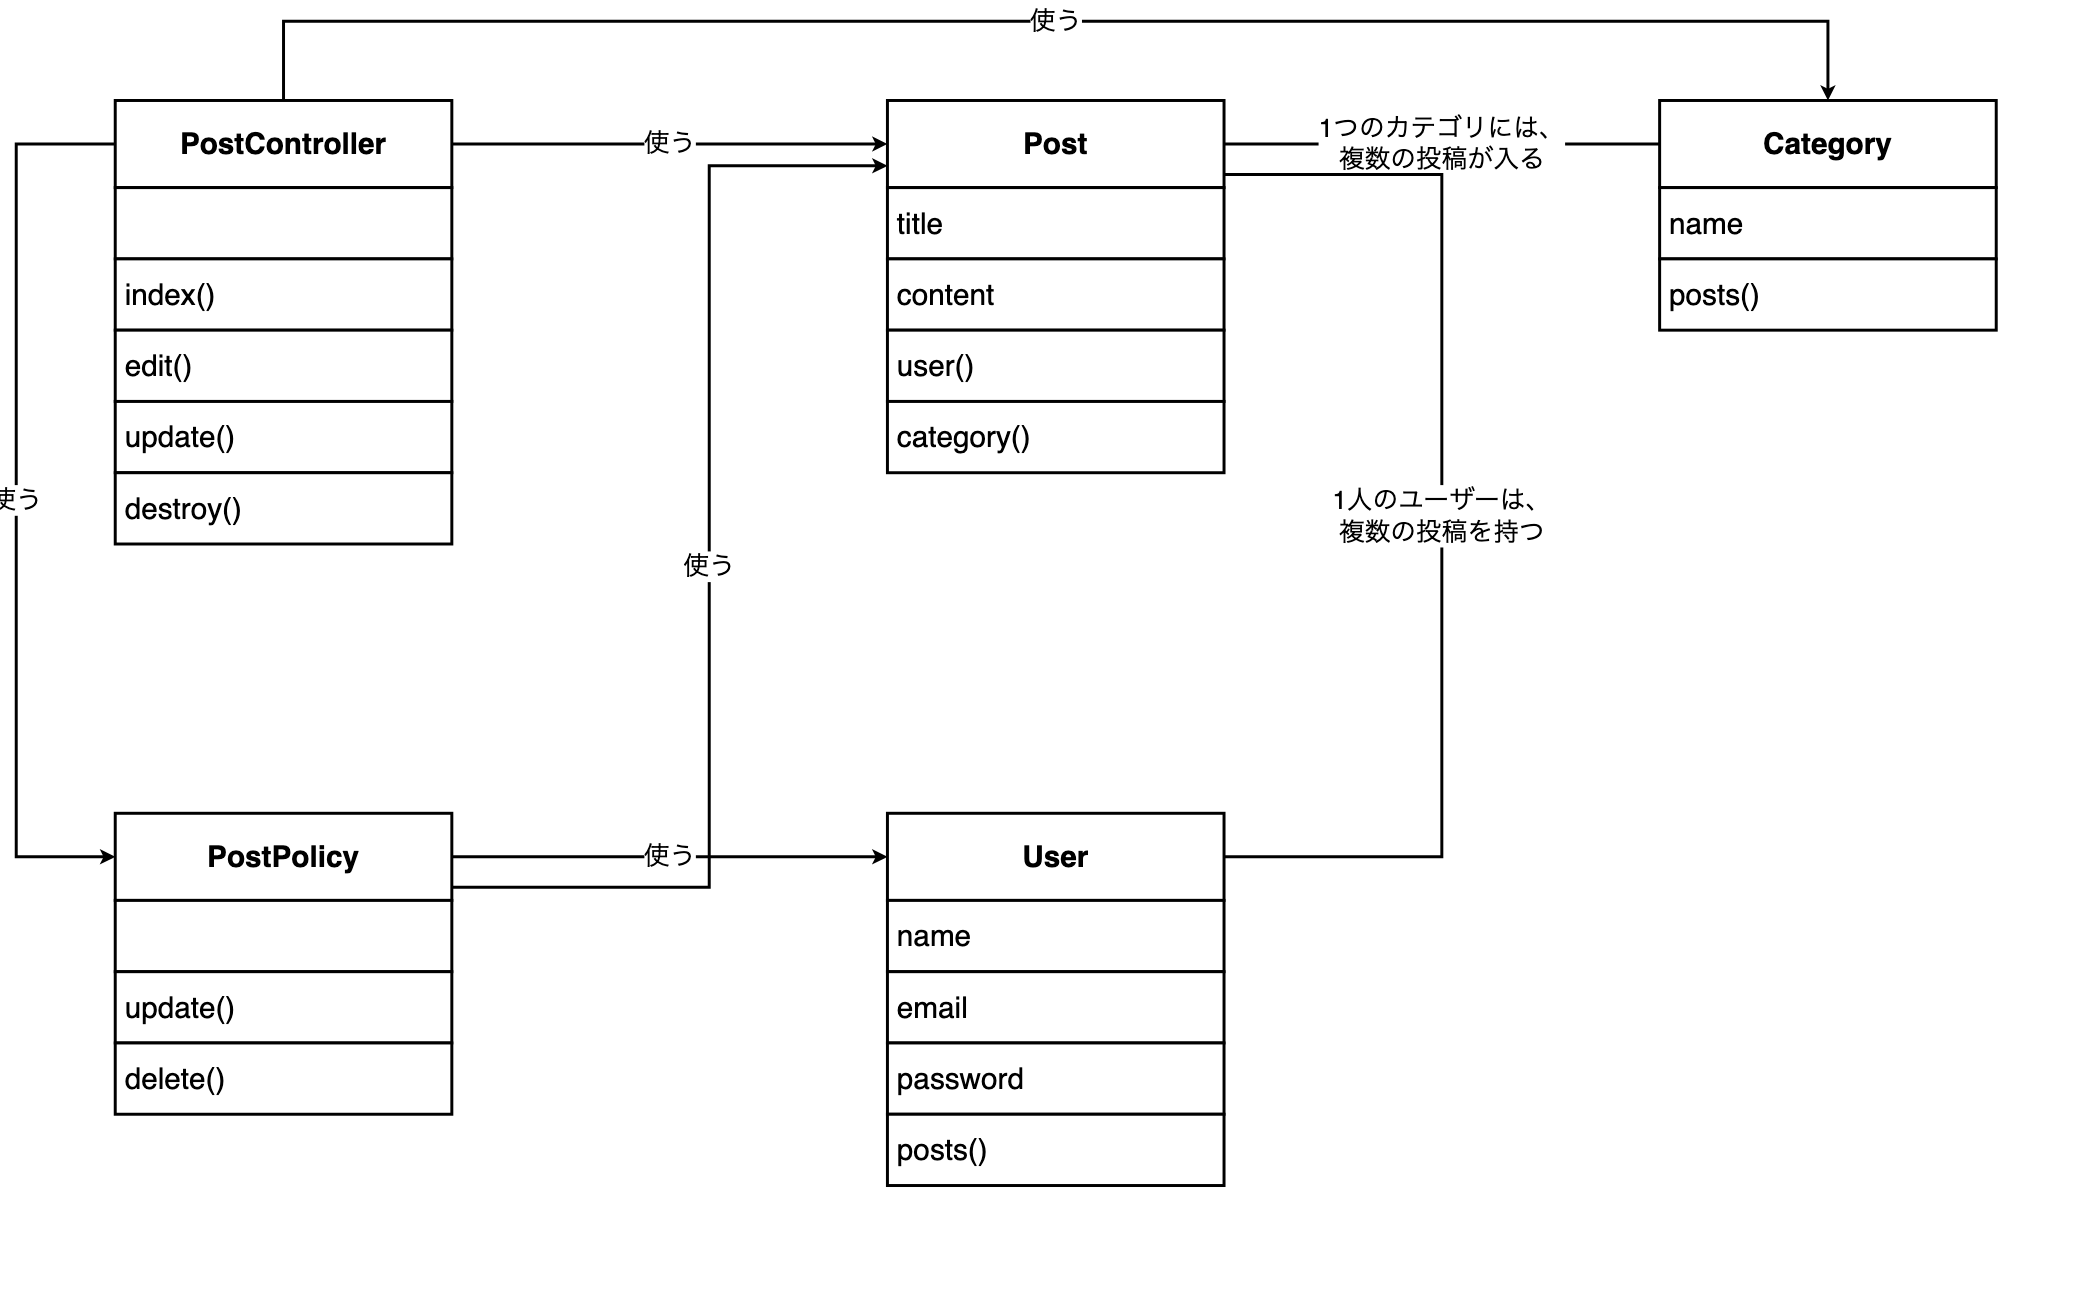
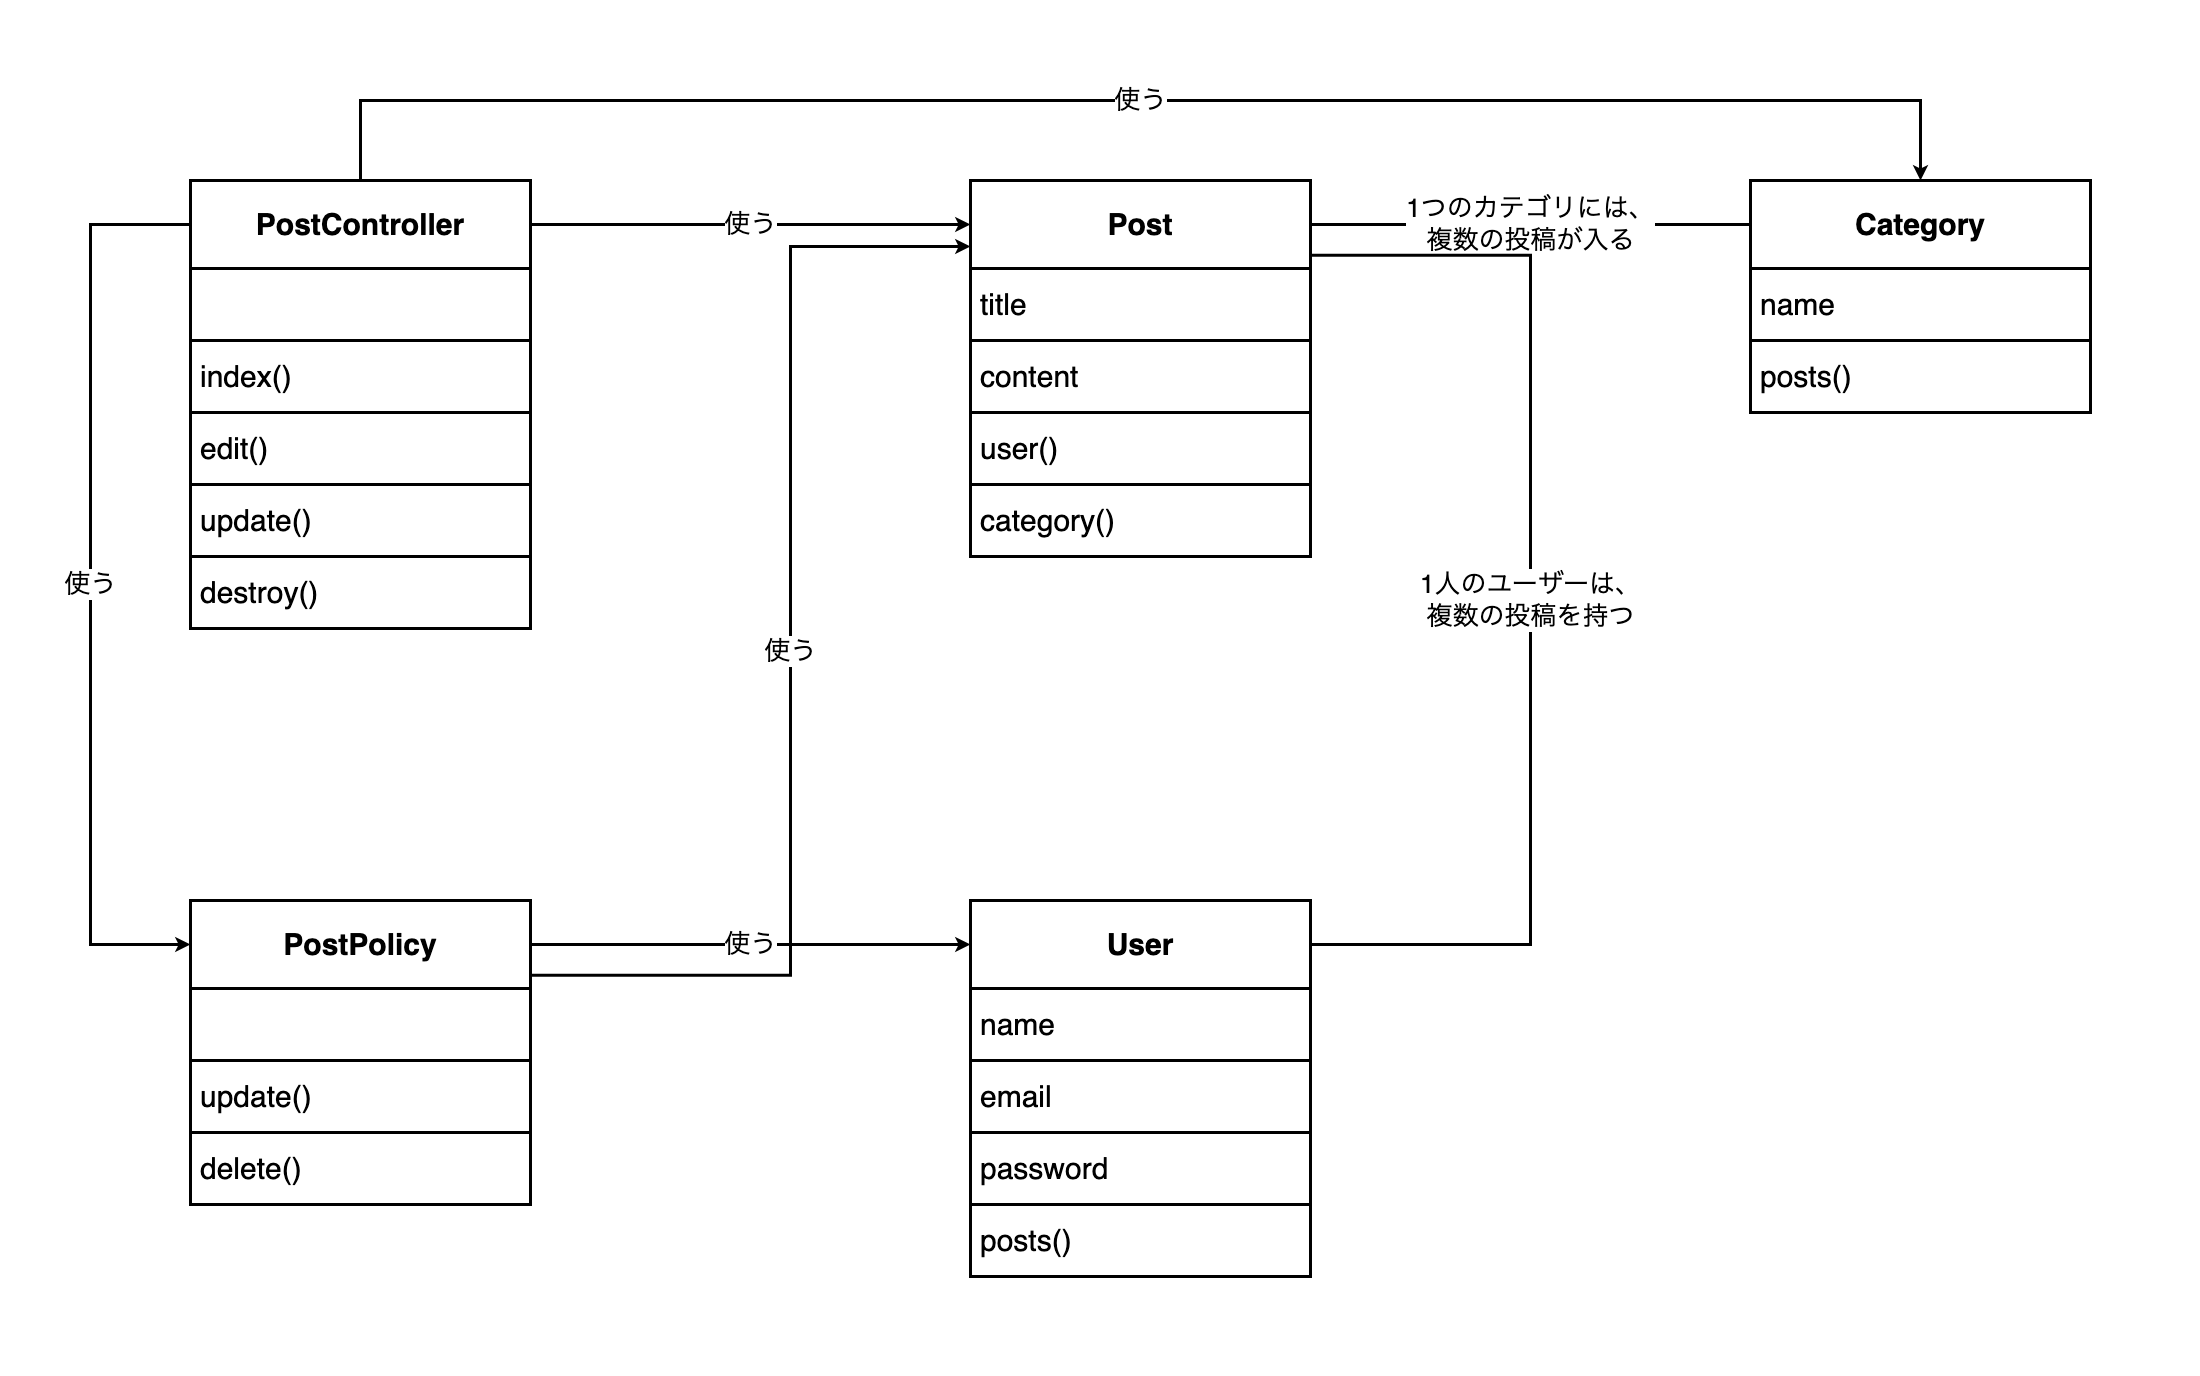
13: 作図の残り5枚を用意し、draw.io の操作説明を実機で確かめて直した
- 13-3-2_s1: 四角にカーソルを合わせたときの青い矢印（実機のスクリーンショット）
- 13-3-2_3: 同じ四角へ戻る輪の形の矢印（.drawio から生成。操作の結果なので図にした）
- 13-5-2_s1: 線を選んだときの書式パネル（線端のボタン2つが見える）
- 13-5-2_3: ER図で使う3つの記号（二重線＝ちょうど1／丸と三又＝0件以上／
  縦線と三又＝1件以上）。線端の一覧は48x1088の細い帯で教材に向かないため、
  記号そのものを図にした
- 13-6-2_s1: 図形を選んだときの書式パネル

実機で確かめて分かった誤り2件を修正:
- 13-6-2 の「『スタイル』の色の一覧から黒を選びます」は不正確だった。
  スタイルタブ上部の色見本に黒は無く、「塗りつぶし」の色の四角を押して
  一覧から選ぶ。あわせて、塗りのない図形は縁をクリックしないと選べない
- 13-5-2 の記法の表「線端の三又で、丸が付いていないもの」を
  「線端の縦線と三又」に修正（draw.io と Mermaid の実際の描画に合わせた）

render_drawio.py のバグを1件修正: 線の端点（mxPoint）を座標の集計に入れて
いなかったため、自由に置いた線を含む図で余白がずれていた。該当する12枚を
再生成した。

T13 は 29節・図35枚で lint 🔴🟡 ともゼロ。

diff --git a/.claude/scripts/render_drawio.py b/.claude/scripts/render_drawio.py
@@ -78,13 +78,17 @@ def scale_styles(xml: str, factor: float) -> str:
     return re.sub(r'style="([^"]*)"', repl, xml)
 
 
-def content_size(xml: str) -> tuple[float, float]:
-    """図形の座標から、描画に必要な幅と高さを見積もる。"""
+def _extent(xml: str) -> tuple[list[float], list[float]]:
+    """図形の外接矩形と、線の端点・折れ点（mxPoint）から座標の範囲を集める。
+
+    自由に置いた線（source/target を持たず mxPoint だけで位置を決める線）は
+    mxGeometry を持たないため、mxPoint も見ないと図の左右がずれる。
+    """
     xs: list[float] = []
     ys: list[float] = []
     for m in re.finditer(r"<mxGeometry\b[^>]*/?>", xml):
         tag = m.group(0)
-        if 'as="geometry"' not in tag:
+        if 'as="geometry"' not in tag or 'relative="1"' in tag:
             continue
         x = re.search(r'\bx="(-?[\d.]+)"', tag)
         y = re.search(r'\by="(-?[\d.]+)"', tag)
@@ -94,6 +98,20 @@ def content_size(xml: str) -> tuple[float, float]:
             xs.extend([float(x.group(1)), float(x.group(1)) + float(w.group(1))])
         if y and h:
             ys.extend([float(y.group(1)), float(y.group(1)) + float(h.group(1))])
+    for m in re.finditer(r"<mxPoint\b[^>]*/?>", xml):
+        tag = m.group(0)
+        x = re.search(r'\bx="(-?[\d.]+)"', tag)
+        y = re.search(r'\by="(-?[\d.]+)"', tag)
+        if x:
+            xs.append(float(x.group(1)))
+        if y:
+            ys.append(float(y.group(1)))
+    return xs, ys
+
+
+def content_size(xml: str) -> tuple[float, float]:
+    """図形の座標から、描画に必要な幅と高さを見積もる。"""
+    xs, ys = _extent(xml)
     if not xs or not ys:
         raise SystemExit("図形の座標を読み取れませんでした（mxGeometry が見つかりません）")
     return max(xs) - min(xs), max(ys) - min(ys)
@@ -105,20 +123,7 @@ def add_padding(xml: str, margin: float) -> str:
     draw.io は図形の外接矩形に合わせて描画位置を決めるため、線端の ER 記号が
     図形の外へはみ出すぶんだけ左右が切れる。透明な枠を置いて外接矩形を広げる。
     """
-    xs: list[float] = []
-    ys: list[float] = []
-    for m in re.finditer(r"<mxGeometry\b[^>]*/?>", xml):
-        tag = m.group(0)
-        if 'as="geometry"' not in tag:
-            continue
-        x = re.search(r'\bx="(-?[\d.]+)"', tag)
-        y = re.search(r'\by="(-?[\d.]+)"', tag)
-        w = re.search(r'\bwidth="(-?[\d.]+)"', tag)
-        h = re.search(r'\bheight="(-?[\d.]+)"', tag)
-        if x and w:
-            xs.extend([float(x.group(1)), float(x.group(1)) + float(w.group(1))])
-        if y and h:
-            ys.extend([float(y.group(1)), float(y.group(1)) + float(h.group(1))])
+    xs, ys = _extent(xml)
     pad = (
         f'<mxCell id="__pad" value="" '
         f'style="rounded=0;fillColor=none;strokeColor=none;" vertex="1" parent="1">'

diff --git a/curriculums/tutorial-13: システム設計を学ぼう📐/chapter-5: データ設計/13-5-2_ER図と正規化.md b/curriculums/tutorial-13: システム設計を学ぼう📐/chapter-5: データ設計/13-5-2_ER図と正規化.md
@@ -48,7 +48,7 @@
 | 線 | テーブルどうしの関係 |
 | 線端の縦二重線 | その端がちょうど1件（1の側） |
 | 線端の丸と三又 | その端が0件以上（多の側） |
-| 線端の三又で、丸が付いていないもの | その端が1件以上（多の側で、0件を許さないとき） |
+| 線端の縦線と三又 | その端が1件以上（多の側で、0件を許さないとき） |
 | 線に添えた文 | 両端が何件ずつなのかを、日本語の1文で言い直したもの |
 
 四角の中に書くのは、テーブル名だけです。カラム名も型も書きません。13-3-2で画面遷移図の四角にIDを書かないのと同じで、図に情報を詰めるほど、見たいものが見えなくなります。この図はつながり方を見るためのもので、カラムを書き出すのはテーブル定義書の役目です。
@@ -57,7 +57,7 @@
 
 1. エンティティ一覧の行数ぶん、四角を置きます。中には英語のテーブル名を入れます。日本語のエンティティ名を英語にして複数形にしたものですが、付け方は13-5-3で決めるので、ここでは手を止めずに置いてください。英単語が出てこないときは、辞書や翻訳ツールで調べて構いません。AIに「レッスンは英語で何と言いますか」と聞くのも、言葉についての質問なので問題ありません。
 2. 関係の一覧の行数ぶん、線を引きます。**「1」の側の四角を左（または上）に置く**と、図と表の並びが揃って読みやすくなります。
-3. 引いた線の両端に、記号を付けます。「1」の側が縦の二重線、「多」の側が三又です。三又は、0件があり得るなら丸の付いたもの、1件以上と決めているなら丸の付いていないものを選びます。13-5-1の手順3で「複数の」と「1つ以上の」を書き分けたのが、そのまま記号の選び分けになります。操作は次の「draw.ioで線端の記号を選ぶ」のとおりです。
+3. 引いた線の両端に、記号を付けます。「1」の側が縦の二重線、「多」の側が三又です。三又は、0件があり得るなら丸の付いたもの、1件以上と決めているなら縦線の付いたものを選びます。13-5-1の手順3で「複数の」と「1つ以上の」を書き分けたのが、そのまま記号の選び分けになります。操作は次の「draw.ioで線端の記号を選ぶ」のとおりです。
 4. 線に、13-5-1の関係の一覧の「読み方」の欄の1文を書き入れます。文が長くて図が読みにくいときは、「1回のレッスンに、複数の申し込み」のように短くしても構いません。ただし、`1対多` とだけ書くのは避けてください。
 5. 多対多の行があれば、その2つの四角の間につなぎ役の四角を1つ置き、両側へ1対多の線を2本引き直します。8-3-3で学んだとおり、多対多の関係は2つの1対多に分けて表します。線に書く文も、「1人の講師は、複数のレッスンとの組を持つ」のように、つなぎ役を相手にした形に書き直します。この四角は13-5-1のエンティティ一覧に行がありませんが、テーブル1つとして数えます。
 
@@ -81,13 +81,13 @@
 
 **手順3: 記号の一覧から選ぶ**
 
-ボタンを押すと、端の形の一覧が開きます。矢印や丸が並んだ下のほうに、ER図用の記号があります。「1」にしたい側には縦の二重線、「多」にしたい側には三又の記号を選びます。
+ボタンを押すと、端の形の一覧が開きます。長い一覧で、矢印や丸が上のほうに並び、ER図用の記号は下のほうにあります。この教材で使うのは、次の3つです。
 
-**線端の記号の一覧**
+**ER図で使う3つの記号**
 
-<img alt="13-5-2_s2.png" src="../../../image/13-5-2_s2.png">
+<img alt="13-5-2_3.png" src="../../../image/13-5-2_3.png">
 
-> 💡 **TIP**: 一覧には、縦線が1本だけのものや、丸だけのものも並んでいます。この教材で使うのは、上の記法の表に挙げた3つです。線を引いた向きと記号を付けたい側が食い違ったときは、左右のボタンを入れ替えて選び直してください。
+> 💡 **TIP**: 一覧には、縦線が1本だけのものや、丸だけのものも並んでいます。使うのは上の3つだけです。線を引いた向きと記号を付けたい側が食い違ったときは、左右のボタンを入れ替えて選び直してください。
 
 ---
 

diff --git a/curriculums/tutorial-13: システム設計を学ぼう📐/chapter-6: 振る舞いの設計/13-6-2_状態遷移設計-ステータスの一生を描く.md b/curriculums/tutorial-13: システム設計を学ぼう📐/chapter-6: 振る舞いの設計/13-6-2_状態遷移設計-ステータスの一生を描く.md
@@ -96,10 +96,10 @@
 
 四角を置く・文字を入れる・矢印を引く・矢印に文字を入れるは、13-1-3 と 13-3-2 で使ったものだけで足ります。新しいのは、始まりと終わりの印です（2026年8月時点）。
 
-- **始まりの印**: 「一般」パレットの楕円を1つ置き、幅と高さを同じくらいにして小さな丸にします。置いた丸を選ぶと画面の右に書式パネルが出るので、「スタイル」の色の一覧から黒を選びます。丸が黒く塗られます。
+- **始まりの印**: 「一般」パレットの楕円を1つ置き、幅と高さを同じくらいにして小さな丸にします。置いた丸の**縁**をクリックすると、画面の右の書式パネルが「スタイル」に変わります。「塗りつぶし」の右にある色の四角をクリックし、開いた一覧から黒を選ぶと、丸が黒く塗られます。
 - **終わりの印**: 塗らない丸を1つ置き、その中に黒く塗った小さい丸を重ねます。2つの丸の中心をそろえると、二重丸になります。
 
-**黒く塗る操作（書式パネルの色の一覧）**
+図形を選んだときの書式パネル。**「塗りつぶし」の色**をここで変えます
 
 <img alt="13-6-2_s1.png" src="../../../image/13-6-2_s1.png">
 

diff --git a/curriculums/tutorial-13: システム設計を学ぼう📐/chapter-3: 画面設計/13-3-2_画面遷移図.md b/curriculums/tutorial-13: システム設計を学ぼう📐/chapter-3: 画面設計/13-3-2_画面遷移図.md
@@ -75,7 +75,7 @@
 
 **同じ四角の上で離すと、輪の形の矢印になる**
 
-<img alt="13-3-2_s2.png" src="../../../image/13-3-2_s2.png">
+<img alt="13-3-2_3.png" src="../../../image/13-3-2_3.png">
 
 3つ目は、矢印に文字を入れる操作です。引いた矢印をダブルクリックすると、線の上に文字を入力できます。図形に文字を入れるときと同じ操作です。
 
